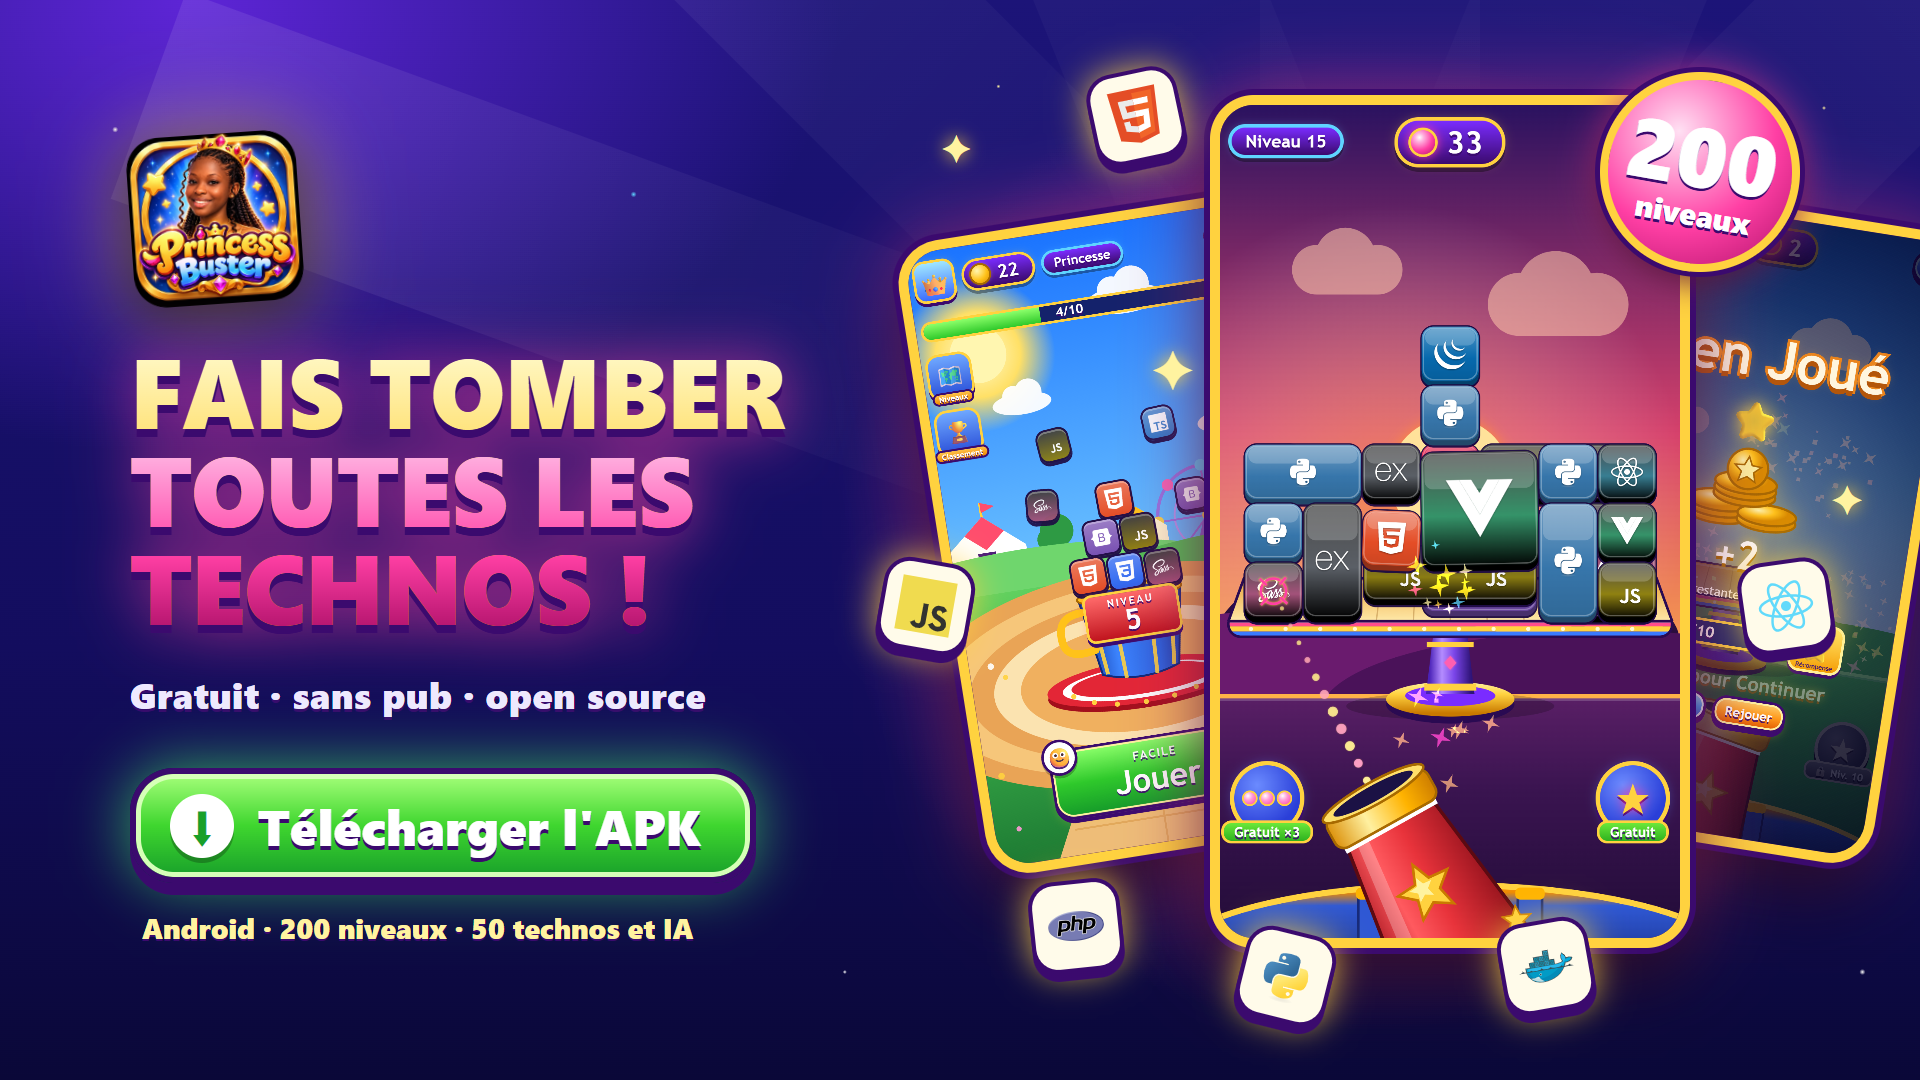
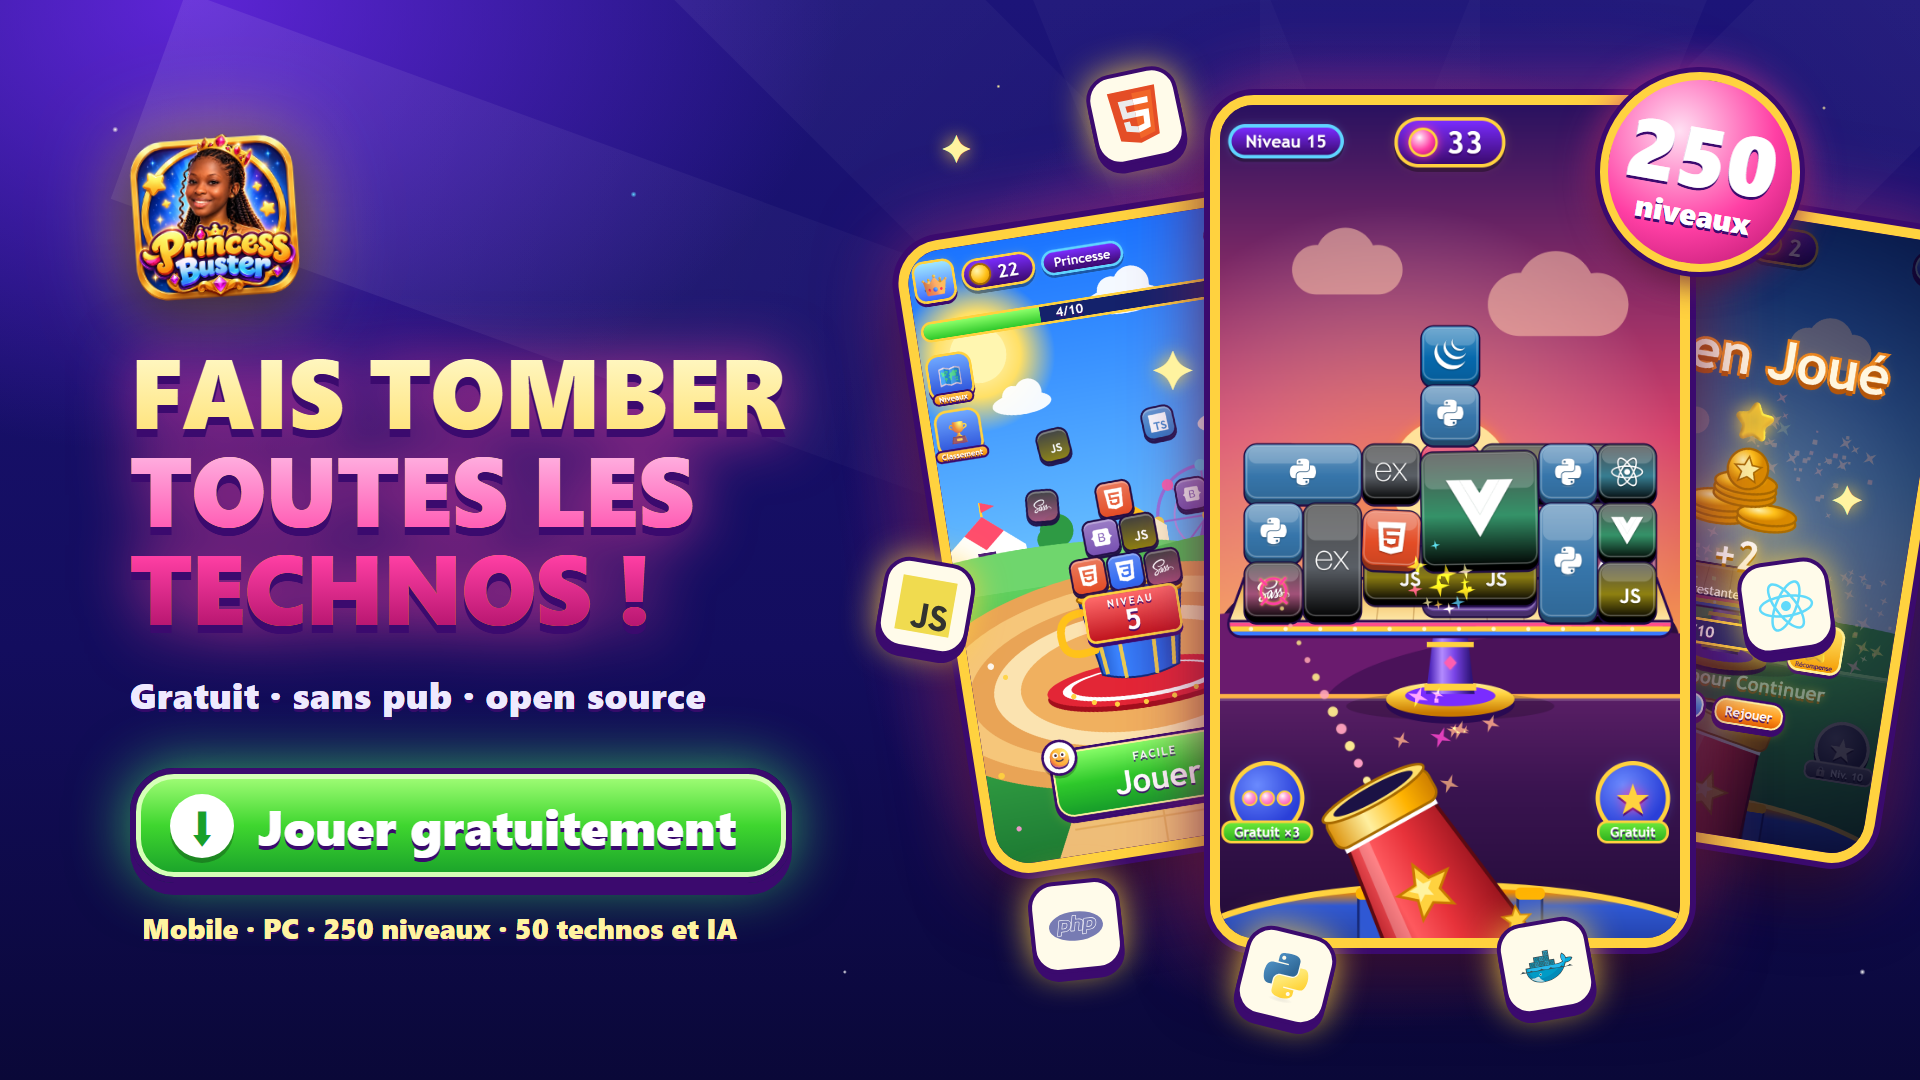
feat(pwa): installation PWA (standalone, marge zone sure), README sans APK, promo mise a jour (250 niveaux)

diff --git a/public/index.html b/public/index.html
@@ -5,7 +5,7 @@
   <meta name="viewport" content="width=device-width, initial-scale=1, maximum-scale=1, user-scalable=no, viewport-fit=cover">
   <meta name="theme-color" content="#0a0838">
   <title>Princess Buster - Jeu de tir gratuit : fais tomber les cubes de langages de programmation</title>
-  <meta name="description" content="Princess Buster : jeu mobile gratuit et open source. Tire sur des piles de cubes HTML, CSS, JavaScript, PHP, ChatGPT, Claude... 250 niveaux, 12 décors. Joue en ligne ou télécharge l'APK Android.">
+  <meta name="description" content="Princess Buster : jeu mobile gratuit et open source. Tire sur des piles de cubes HTML, CSS, JavaScript, PHP, ChatGPT, Claude... 250 niveaux, 12 décors. Joue en ligne ou installe-le comme une application sur ton téléphone.">
   <meta name="keywords" content="Princess Buster, jeu gratuit, jeu de tir, jeu de cubes, jeu pour développeurs, apprendre la programmation en jouant, HTML, CSS, JavaScript, PHP, Laravel, jeu android, jeu open source, jeu navigateur">
   <meta name="author" content="princesse-aku">
   <meta name="robots" content="index, follow, max-image-preview:large, max-snippet:-1">
@@ -72,8 +72,8 @@
 </head>
 <body>
   <h1 class="sr-only">Princess Buster : jeu de tir gratuit, fais tomber les cubes de langages de programmation</h1>
-  <p class="sr-only">Princess Buster est un jeu gratuit et open source en 250 niveaux : un canon tire sur des piles de cubes HTML, CSS, JavaScript, PHP, Laravel, React, Python, ChatGPT, Claude et bien d'autres. Joue dans ton navigateur sur téléphone, tablette ou ordinateur, ou installe l'application Android.</p>
-  <noscript><p style="padding:24px;color:#fff;font-family:sans-serif">Princess Buster est un jeu qui nécessite JavaScript. Active JavaScript dans ton navigateur pour jouer, ou télécharge l'application Android sur <a href="https://github.com/princesse-aku/princess_buster/releases" style="color:#ffd23f">GitHub</a>.</p></noscript>
+  <p class="sr-only">Princess Buster est un jeu gratuit et open source en 250 niveaux : un canon tire sur des piles de cubes HTML, CSS, JavaScript, PHP, Laravel, React, Python, ChatGPT, Claude et bien d'autres. Joue dans ton navigateur sur téléphone, tablette ou ordinateur, ou installe-le comme une application.</p>
+  <noscript><p style="padding:24px;color:#fff;font-family:sans-serif">Princess Buster est un jeu qui nécessite JavaScript. Active JavaScript dans ton navigateur pour jouer, ou retrouve le projet sur <a href="https://github.com/princesse-aku/princess_buster" style="color:#ffd23f">GitHub</a>.</p></noscript>
   <div id="stage">
 
     <!-- 0. Splash -->

diff --git a/public/css/style.css b/public/css/style.css
@@ -89,7 +89,7 @@ html, body { margin: 0; height: 100%; overscroll-behavior: none; position: fixed
 /* Écran de jeu */
 #screen-game { background: var(--night); }
 #canvas { position: absolute; inset: 0; width: 540px; height: 960px; touch-action: none; z-index: 0; }
-.hud { position: absolute; top: 14px; left: 14px; right: 14px; display: flex; align-items: flex-start; gap: 10px; pointer-events: none; z-index: 2; }
+.hud { position: absolute; top: calc(14px + env(safe-area-inset-top, 0px)); left: 14px; right: 14px; display: flex; align-items: flex-start; gap: 10px; pointer-events: none; z-index: 2; }
 .hud > * { pointer-events: auto; }
 .pill { display: flex; align-items: center; gap: 10px; padding: 4px 22px 4px 12px; border: 4px solid var(--gold); border-radius: 28px; background: linear-gradient(var(--violet), var(--purple)); color: #fff; font-size: 36px; font-weight: 800; box-shadow: 0 5px 0 rgba(0, 0, 0, .35), 0 0 11px rgba(255, 210, 63, 0.2); text-shadow: var(--ink); }
 .pill.lvl-pill { font-size: 20px; padding: 4px 16px; margin-top: 6px; border-color: var(--sky); box-shadow: 0 4px 0 rgba(0,0,0,.35), 0 0 9px rgba(95, 212, 255, 0.24); }

diff --git a/public/css/home.css b/public/css/home.css
@@ -30,7 +30,7 @@
 .home-bg .h2 { right: -160px; bottom: 230px; width: 640px; height: 280px; background: #43b250; }
 .home-bg .ground { left: 0; right: 0; bottom: 0; height: 46%; background: linear-gradient(#46b84a, #2f9b3f 55%, #1f6d2c); border-top: 5px solid #9df08a; }
 
-.topbar { position: absolute !important; top: 14px; left: 14px; right: 14px; z-index: 5 !important; display: flex; align-items: center; gap: 10px; }
+.topbar { position: absolute !important; top: calc(14px + env(safe-area-inset-top, 0px)); left: 14px; right: 14px; z-index: 5 !important; display: flex; align-items: center; gap: 10px; }
 .topbar .btn.round { margin-left: auto; width: 56px; height: 56px; }
 .avatar-btn { width: 66px; height: 66px; border-radius: 18px; border: 4px solid var(--gold); background: linear-gradient(#9fe6ff, #3a6bff); box-shadow: 0 5px 0 var(--purple), 0 0 10px rgba(255, 210, 63, 0.22); font-size: 40px; cursor: pointer; display: flex; align-items: center; justify-content: center; transition: transform .1s; }
 .avatar-btn:active { transform: translateY(3px); }

diff --git a/docs/promo/promo.html b/docs/promo/promo.html
@@ -65,8 +65,8 @@
     <img class="logo" src="../../public/assets/logo.png" alt="Princess Buster">
     <h1>Fais tomber<span>toutes les technos !</span></h1>
     <p class="sub">Gratuit · sans pub · open source</p>
-    <div class="cta"><div class="arrow">⬇</div>Télécharger l'APK</div>
-    <p class="mini">Android · 250 niveaux · 50 technos et IA</p>
+    <div class="cta"><div class="arrow">⬇</div>Jouer gratuitement</div>
+    <p class="mini">Mobile · PC · 250 niveaux · 50 technos et IA</p>
   </div>
 
   <div class="card c1"><img src="shot-home.png" alt=""></div>

diff --git a/README.md b/README.md
@@ -87,8 +87,8 @@ Le jeu occupe tout l'écran : ici sur une tablette en mode paysage.
 
 ## Télécharger et jouer
 
-- 🤖 **Android** : télécharge le fichier `.apk` depuis la page [**Releases**](https://github.com/princesse-aku/princess_buster/releases) puis installe-le (autorise l'installation depuis cette source). Pour le compiler toi-même : [docs/ANDROID.md](docs/ANDROID.md).
-- 🌐 **Navigateur** : [déploiement Vercel](docs/DEPLOY-VERCEL.md) (jouable sur téléphone, tablette et PC, installable comme une application).
+- 📱 **Installer comme une application (PWA)** : ouvre le jeu dans Chrome (Android) → menu ⋮ → **Installer l'application** ; sur iPhone (Safari) → Partager → **Sur l'écran d'accueil**. Pas d'APK à télécharger : le jeu s'ouvre en plein écran comme une vraie application.
+- 🌐 **Navigateur** : [déploiement Vercel](docs/DEPLOY-VERCEL.md) (jouable sur téléphone, tablette et PC).
 - 💻 **En local** : voir ci-dessous.
 
 [![Déployer avec Vercel](https://vercel.com/button)](https://vercel.com/new/clone?repository-url=https%3A%2F%2Fgithub.com%2Fprincesse-aku%2Fprincess_buster)
@@ -214,7 +214,7 @@ http://localhost:3000/?name=Ada&level=12&autoplay=1&clean=1   → idem sans band
 
 ## Feuille de route
 
-- [ ] Application **desktop et Android/iOS avec [Tauri](https://tauri.app)** (`public/` est déjà le `frontendDist` ; `storage.js` à brancher sur `tauri-plugin-sql`, mêmes tables)
+- [ ] Application **desktop avec [Tauri](https://tauri.app)** (optionnel : l'installation PWA suffit sur mobile) (`public/` est déjà le `frontendDist` ; `storage.js` à brancher sur `tauri-plugin-sql`, mêmes tables)
 - [ ] Pièces spéciales (explosives, indestructibles, rebondissantes)
 - [ ] Bonus achetables (triple tir, bombe…)
 - [ ] Plus de niveaux et de technologies (Go, Rust, Kotlin, Swift…)

diff --git a/README.en.md b/README.en.md
@@ -49,6 +49,11 @@ A stack of cubes (HTML, CSS, JavaScript, PHP, Laravel, Node.js, Docker…) sits 
 - 🔊 Background music and SFX synthesized with WebAudio (no audio files)
 - 🧩 **Zero npm dependencies**: Node.js and a browser are enough (Matter.js is bundled)
 
+## Install and play
+
+- 📱 **Install as an app (PWA)**: open the game in Chrome (Android) → ⋮ menu → **Install app**; on iPhone (Safari) → Share → **Add to Home Screen**. No APK needed: it opens full screen like a native app.
+- 🌐 **Browser**: [Vercel deployment](docs/DEPLOY-VERCEL.md), playable on phone, tablet and desktop.
+
 ## Quick start
 
 Requires [Node.js](https://nodejs.org) **22.5+** (built-in `node:sqlite`).
@@ -95,7 +100,7 @@ API: `POST /api/player`, `POST /api/progress`, `GET /api/leaderboard`. Dev short
 
 ## Roadmap
 
-- [ ] Desktop and Android/iOS apps with [Tauri](https://tauri.app)
+- [ ] Desktop app with [Tauri](https://tauri.app)
 - [ ] Special pieces (explosive, unbreakable, bouncy)
 - [ ] Power-ups (triple shot, bomb…)
 - [ ] More levels and technologies (Go, Rust, Kotlin, Swift…)
